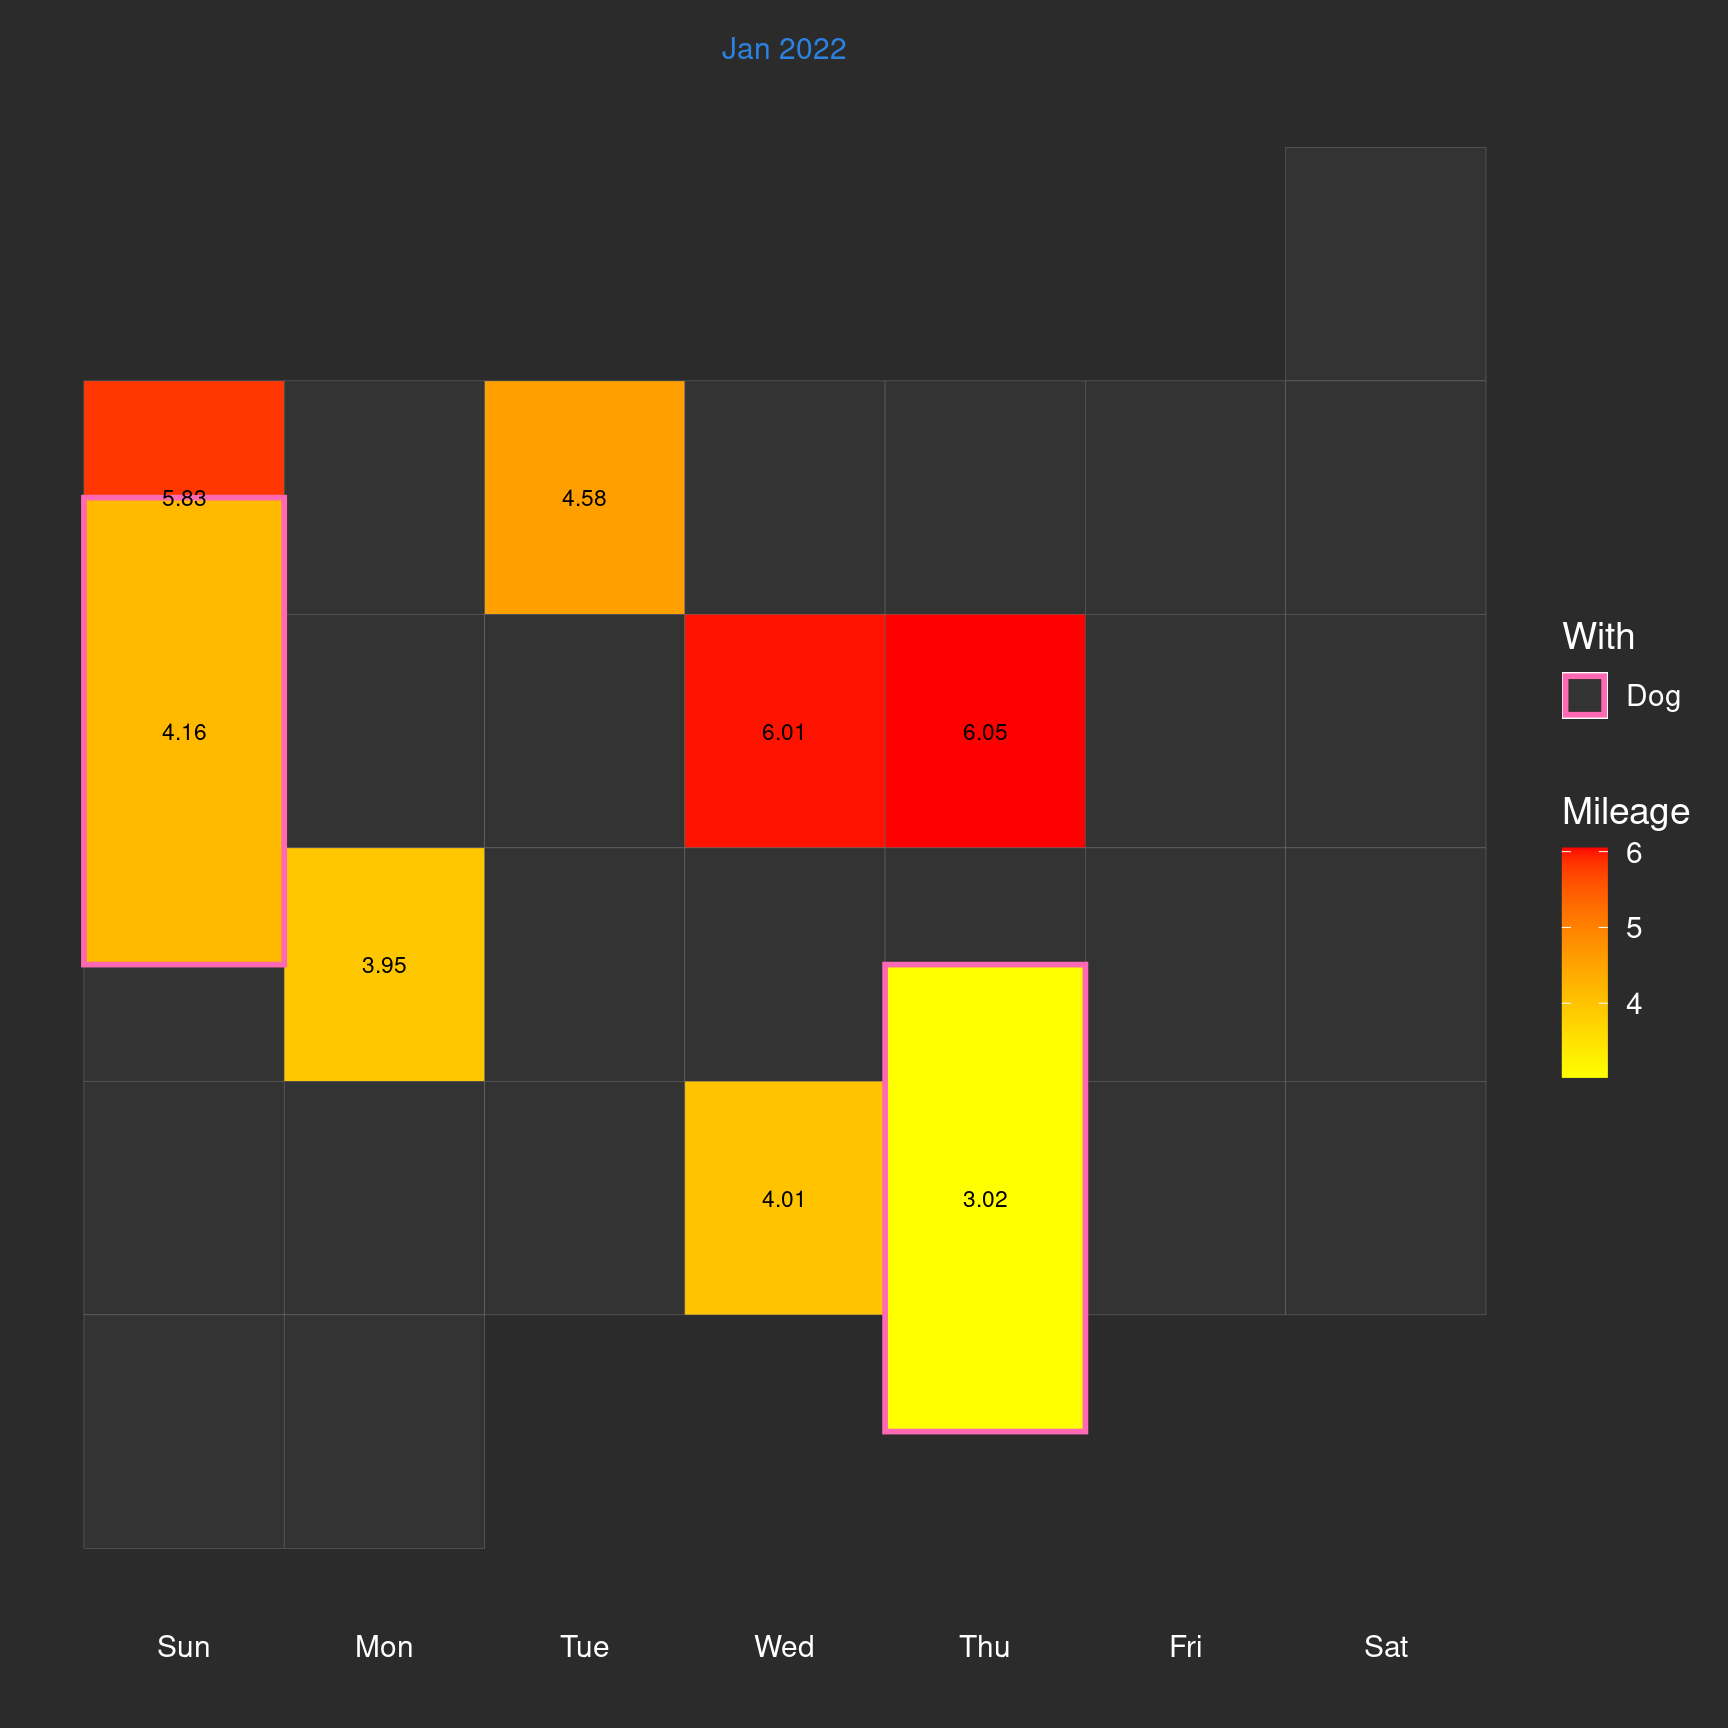
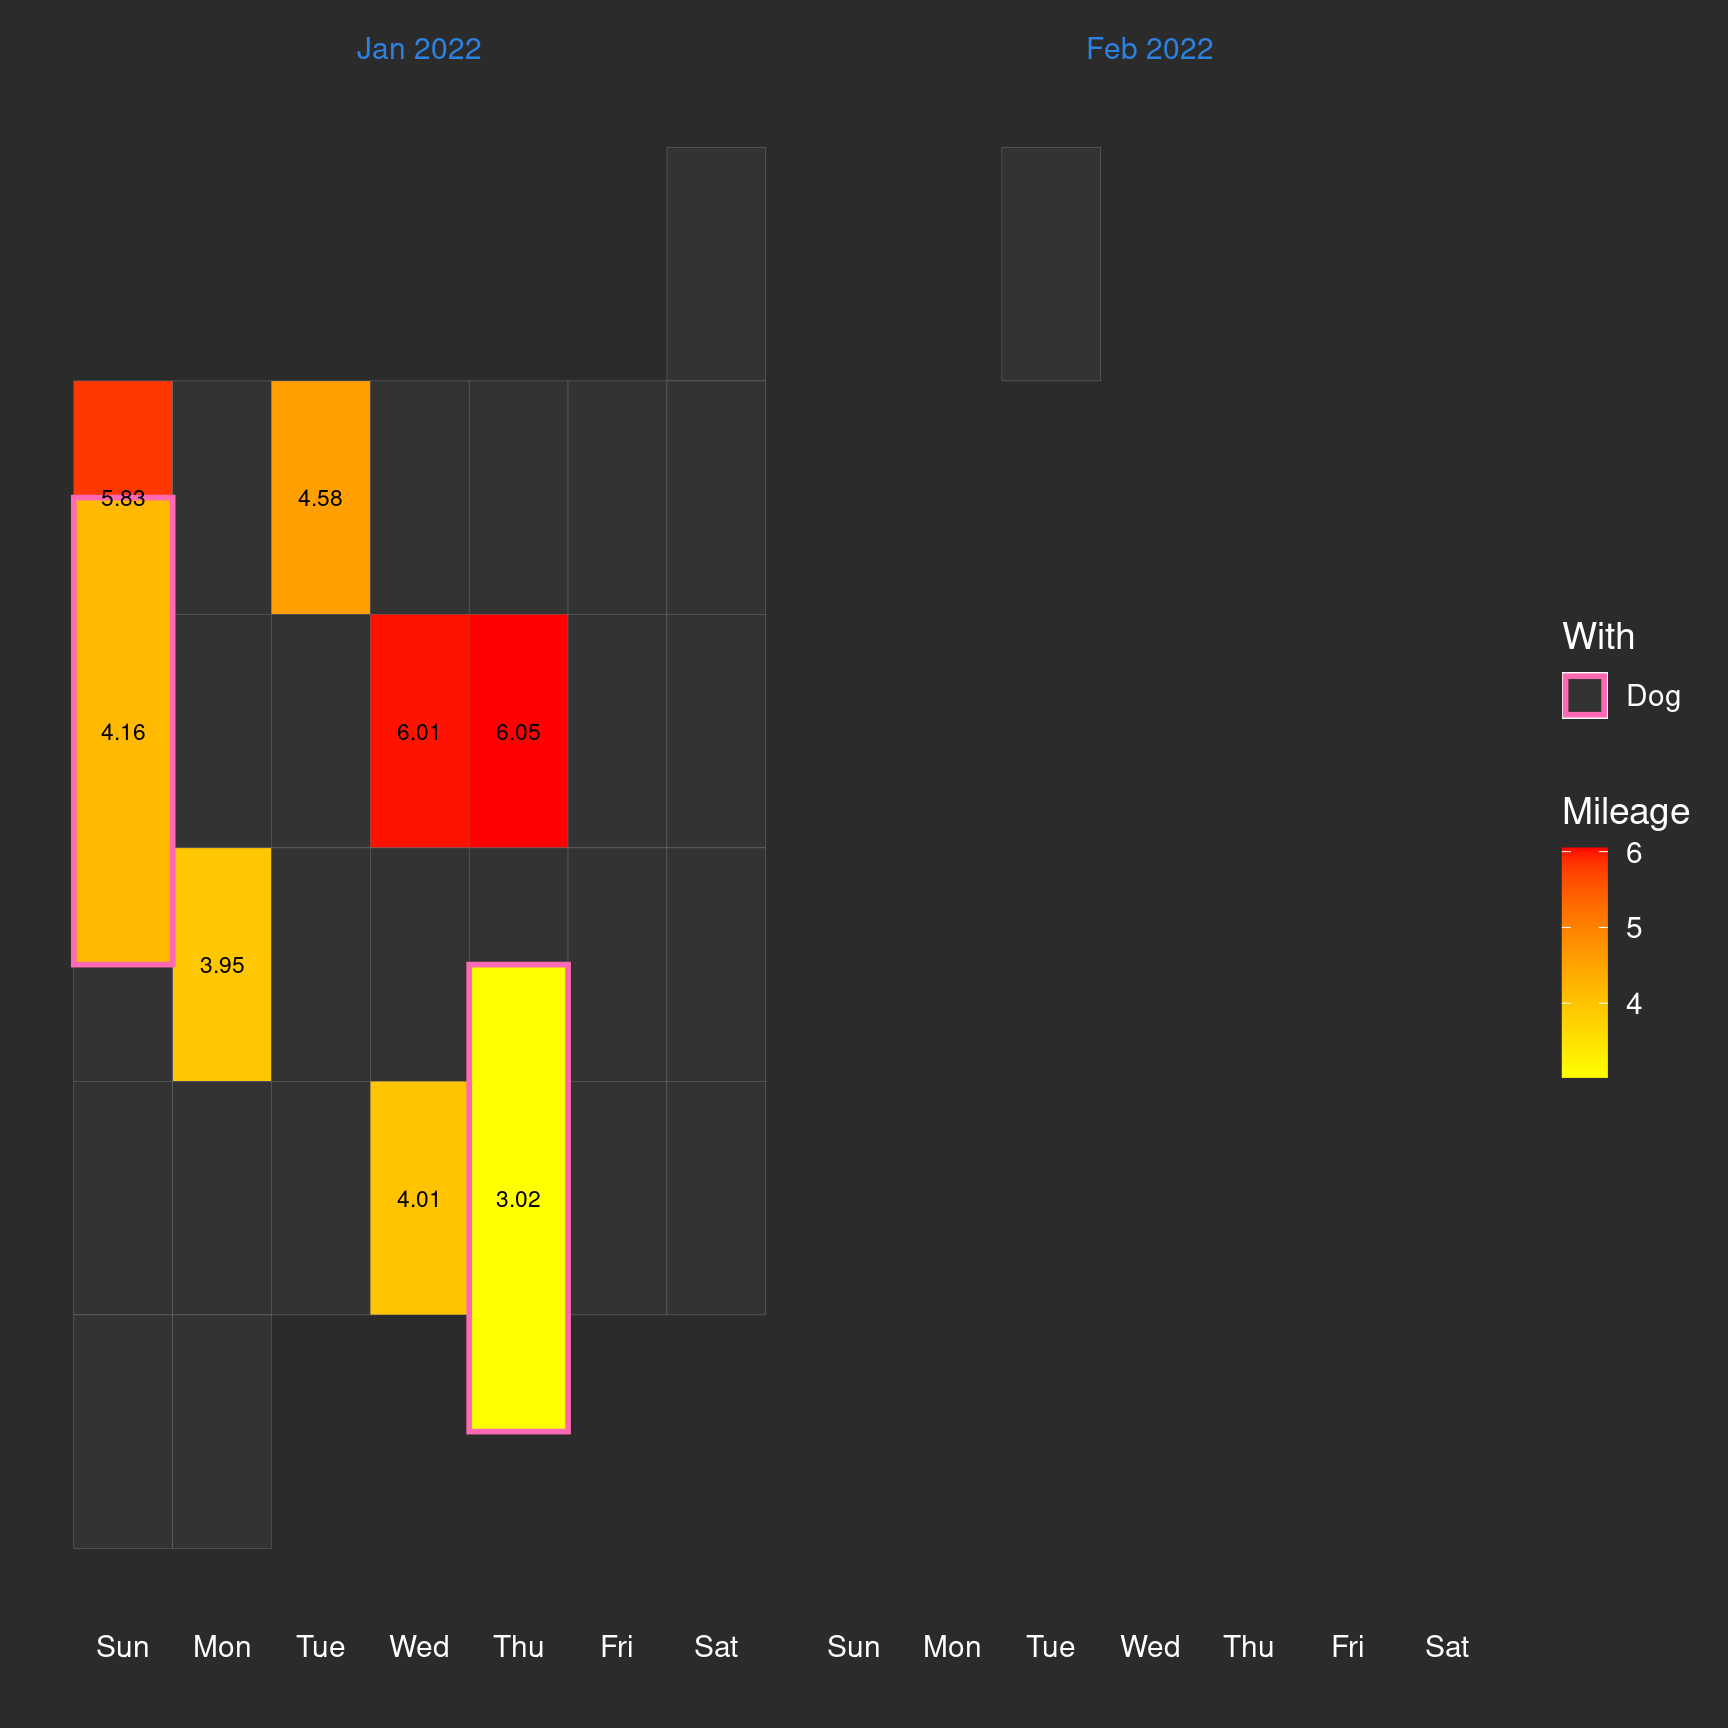
cron auto-update run log

diff --git a/content/run/2022/log.html b/content/run/2022/log.html
@@ -1,6 +1,6 @@
 ---
 title: "2022"
-date: "2022-01-31"
+date: "2022-02-01"
 output: html_document
 ---
 
